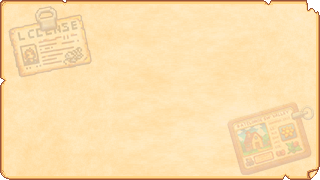
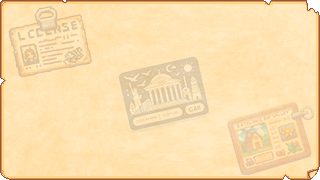
release v5.1.0

Changed region(s): [[0.375, 0.3056, 0.6562, 0.7222]]

diff --git a/ModEntry.cs b/ModEntry.cs
@@ -107,6 +107,7 @@ namespace MarketTown
         public static int TodayCookingSold = 0;
         public static int TodayFishSold = 0;
         public static int TodayGemSold = 0;
+        public static int TodayMuseumVisitor = 0;
         //
         // *************************** ENTRY ***************************
         //
@@ -209,8 +210,13 @@ namespace MarketTown
             TodayCookingSold = 0;
             TodayFishSold = 0;
             TodayGemSold = 0;
+            TodayMuseumVisitor = 0;
 
             listNPCTodayPurchaseTime.Clear();
+            validBuildingObjectPairs.Clear();
+
+            List<int> categoryKeys = new List<int> { 0, -2, -12, -28, -102 };
+            int museumPieces = 0;
 
             foreach (Building building in Game1.getFarm().buildings)
             {
@@ -218,9 +224,28 @@ namespace MarketTown
                 {
                     foreach (var obj in Game1.getLocationFromName(building.GetIndoorsName()).Objects.Values)
                     {
-                        if (obj is Sign sign && sign.displayItem.Value != null && (sign.displayItem.Value.Name == "Market License" || sign.displayItem.Value.Name == "Restaurant License"))
+                        // Case Museum
+                        if (obj is Sign sign && sign.displayItem.Value != null && sign.displayItem.Value.Name == "Museum License")
                         {
-                            validBuildingObjectPairs.Add(new BuildingObjectPair(building, obj));
+                            GameLocation location = Game1.getLocationFromName(building.GetIndoorsName());
+                            foreach (var f in location.furniture)
+                            {
+                                if ( f.heldObject.Value != null && categoryKeys.Contains(f.heldObject.Value.Category) )         // ***** Validate category items *****
+                                {
+                                    museumPieces ++;
+                                }
+                            }
+
+                            validBuildingObjectPairs.Add(new BuildingObjectPair(building, obj, "museum", museumPieces));
+                            if (!Config.RestaurantLocations.Contains(Game1.getLocationFromName(building.GetIndoorsName()).Name)) Config.RestaurantLocations.Add(Game1.getLocationFromName(building.GetIndoorsName()).Name);
+
+                            break;
+                        }
+
+                        //Case Market or Restaurant
+                        if (obj is Sign sign1 && sign1.displayItem.Value != null && (sign1.displayItem.Value.Name == "Market License" || sign1.displayItem.Value.Name == "Restaurant License"))
+                        {
+                            validBuildingObjectPairs.Add(new BuildingObjectPair(building, obj, "market", 0));
                             if ( !Config.RestaurantLocations.Contains(Game1.getLocationFromName(building.GetIndoorsName()).Name)) Config.RestaurantLocations.Add(Game1.getLocationFromName(building.GetIndoorsName()).Name);
                             break;
                         }
@@ -237,11 +262,15 @@ namespace MarketTown
         {
             public Building Building { get; set; }
             public Object Object { get; set; }
+            public string buildingType { get; set; }
+            public int ticketValue { get; set; }
 
-            public BuildingObjectPair(Building building, Object obj)
+            public BuildingObjectPair(Building building, Object obj, string buildingType, int ticketValue)
             {
                 Building = building;
                 Object = obj;
+                this.buildingType = buildingType;
+                this.ticketValue = ticketValue;
             }
         }
 
@@ -664,6 +693,17 @@ namespace MarketTown
                 min: 0.0f,
                 max: 1.0f,
                 interval: 0.01f
+            );
+
+            configMenu.AddNumberOption(
+                mod: ModManifest,
+                name: () => SHelper.Translation.Get("foodstore.config.museumpricemarkup"),
+                tooltip: () => SHelper.Translation.Get("foodstore.config.museumpricemarkupText"),
+                getValue: () => Config.MuseumPriceMarkup,
+                setValue: value => Config.MuseumPriceMarkup = value,
+                min: 0.0f,
+                max: 4.0f,
+                interval: 0.025f
             );
 
             configMenu.AddTextOption(
@@ -1153,21 +1193,23 @@ namespace MarketTown
 
                 TodayCustomerInteraction = TodayCustomerInteraction,
 
-                ForageSold = TodayForageSold + +weeklyForageSold,
-                FlowerSold = TodayFlowerSold + +weeklyFlowerSold,
-                FruitSold = TodayFruitSold + +weeklyFruitSold,
-                VegetableSold = TodayVegetableSold + +weeklyVegetableSold,
-                SeedSold = TodaySeedSold + +weeklySeedSold,
-                MonsterLootSold = TodayMonsterLootSold + +weeklyMonsterLootSold,
-                SyrupSold = TodaySyrupSold + +weeklySyrupSold,
-                ArtisanGoodSold = TodayArtisanGoodSold + +weeklyArtisanGoodSold,
-                AnimalProductSold = TodayAnimalProductSold + +weeklyAnimalProductSold,
-                ResourceMetalSold = TodayResourceMetalSold + +weeklyResourceMetalSold,
-                MineralSold = TodayMineralSold + +weeklyMineralSold,
-                CraftingSold = TodayCraftingSold + +weeklyCraftingSold,
-                CookingSold = TodayCookingSold + +weeklyCookingSold,
-                FishSold = TodayFishSold + +weeklyFishSold,
-                GemSold = TodayGemSold + +weeklyGemSold,
+                TodayMuseumVisitor = TodayMuseumVisitor,
+
+                ForageSold = TodayForageSold + weeklyForageSold,
+                FlowerSold = TodayFlowerSold + weeklyFlowerSold,
+                FruitSold = TodayFruitSold + weeklyFruitSold,
+                VegetableSold = TodayVegetableSold + weeklyVegetableSold,
+                SeedSold = TodaySeedSold + weeklySeedSold,
+                MonsterLootSold = TodayMonsterLootSold + weeklyMonsterLootSold,
+                SyrupSold = TodaySyrupSold + weeklySyrupSold,
+                ArtisanGoodSold = TodayArtisanGoodSold + weeklyArtisanGoodSold,
+                AnimalProductSold = TodayAnimalProductSold + weeklyAnimalProductSold,
+                ResourceMetalSold = TodayResourceMetalSold + weeklyResourceMetalSold,
+                MineralSold = TodayMineralSold + weeklyMineralSold,
+                CraftingSold = TodayCraftingSold + weeklyCraftingSold,
+                CookingSold = TodayCookingSold + weeklyCookingSold,
+                FishSold = TodayFishSold + weeklyFishSold,
+                GemSold = TodayGemSold + weeklyGemSold,
 
                 TotalForageSold = TodayForageSold + totalForageSold,
                 TotalFlowerSold = TodayFlowerSold + totalFlowerSold,
@@ -1574,15 +1616,28 @@ namespace MarketTown
 
             List<PlacedFoodData> foodList = new List<PlacedFoodData>();
 
+            var buildingIsFarm = false;
+            bool buildingIsMarket = false;
+            bool buildingIsRestaurant = false;
+
+            foreach (var building in Game1.getFarm().buildings)
+            {
+                if (building != null && building.GetIndoorsName() != null && building.GetIndoorsName().Contains(location.Name)) buildingIsFarm = true;
+            }
+
             foreach (var x in location.Objects)                 // Check valid Mannequin
             {
                 foreach (var obj in x.Values)
                 {
+                    if (obj is Sign sign && buildingIsFarm)
+                    {
+                        if (sign != null && sign.displayItem != null && sign.displayItem.Value.Name == "Museum License" ) return null;
+                        else if (sign != null && sign.displayItem != null && sign.displayItem.Value.Name == "Restaurant License") buildingIsRestaurant = true;
+                        else if (sign != null && sign.displayItem != null && sign.displayItem.Value.Name == "Market License") buildingIsMarket = true;
+                    }
+
                     if (obj.name.Contains("nequin") && obj is MtMannequin mannequin)
                     {
-                        // Access the name property of the object
-                        string objectName = obj.name;
-
                         bool hasHat = mannequin.Hat.Value != null;
                         bool hasShirt = mannequin.Shirt.Value != null;
                         bool hasPants = mannequin.Pants.Value != null;
@@ -1592,21 +1647,10 @@ namespace MarketTown
                         int yLocation = (obj.boundingBox.Y / 64) + (obj.boundingBox.Height / 64 / 2);
                         var fLocation = new Vector2(xLocation, yLocation);
 
-                        float signRange = Config.SignRange;
-                        bool hasSignInRange = x.Values.Any(otherObj => otherObj is Sign sign && Vector2.Distance(fLocation, sign.TileLocation) <= signRange);
+                        bool hasSignInRange = x.Values.Any(otherObj => otherObj is Sign sign && Vector2.Distance(fLocation, sign.TileLocation) <= Config.SignRange);
 
-                        Sign foundSign = location.Objects.Values
-                                        .OfType<Sign>()
-                                        .FirstOrDefault(sign => sign.displayItem.Value != null);
-
-                        var tempCheck = false;
-                        foreach (var building in Game1.getFarm().buildings)
-                        {
-                            if (building != null && building.GetIndoorsName() != null && building.GetIndoorsName().Contains(location.Name)) tempCheck = true;
-                        }
-
-                        if ((Config.SignRange == 0 && !tempCheck) 
-                            || (tempCheck && foundSign != null && foundSign.displayItem != null && foundSign.displayItem.Value.Name == "Market License")) hasSignInRange = true;
+                        if ( Config.SignRange == 0
+                            || (buildingIsFarm && (buildingIsMarket || buildingIsRestaurant)) ) hasSignInRange = true;
 
                         // Add to foodList only if there is no sign within the range
                         if (hasSignInRange && Vector2.Distance(fLocation, npc.Tile) < Config.MaxDistanceToFind && (hasHat || hasPants || hasShirt || hasBoots))
@@ -1628,26 +1672,14 @@ namespace MarketTown
                     int yLocation = (f.boundingBox.Y / 64) + (f.boundingBox.Height / 64 / 2);
                     var fLocation = new Vector2(xLocation, yLocation);
 
-                    float signRange = Config.SignRange;
-                    bool hasSignInRange = location.Objects.Values.Any(obj => obj is Sign sign && Vector2.Distance(fLocation, sign.TileLocation) <= signRange);
+                    bool hasSignInRange = location.Objects.Values.Any(obj => obj is Sign sign && Vector2.Distance(fLocation, sign.TileLocation) <= Config.SignRange);
 
-                    Sign foundSign = location.Objects.Values
-                                    .OfType<Sign>()
-                                    .FirstOrDefault(sign => sign.displayItem.Value != null);
-                    var tempCheck = false;
-                    foreach ( var building in Game1.getFarm().buildings)
-                    {
-                        if (building != null && building.GetIndoorsName() != null && building.GetIndoorsName().Contains(location.Name)) tempCheck = true;
-                    }
-
-                    if ( (Config.SignRange == 0 && !tempCheck)
-                          || (tempCheck && foundSign != null && foundSign.displayItem != null && foundSign.displayItem.Value.Name == "Market License")
-                          || (tempCheck && foundSign != null && f.heldObject.Value.Category == -7 && foundSign.displayItem != null && foundSign.displayItem.Value.Name == "Restaurant License")
-                            
-                        ) hasSignInRange = true;
+                    if ( Config.SignRange == 0
+                          || (buildingIsFarm && buildingIsMarket)
+                          || (buildingIsFarm && f.heldObject.Value.Category == -7 && buildingIsRestaurant) ) hasSignInRange = true;
 
                     // Add to foodList only if there is no sign within the range
-                    if (hasSignInRange&& Vector2.Distance(fLocation, npc.Tile) < Config.MaxDistanceToFind)
+                    if (hasSignInRange && Vector2.Distance(fLocation, npc.Tile) < Config.MaxDistanceToFind)
                     {
                         foodList.Add(new PlacedFoodData(f, fLocation, f.heldObject.Value, -1));
                     }
@@ -2005,9 +2037,12 @@ namespace MarketTown
                 {
                     Building building = pair.Building;
                     Object obj = pair.Object;
+                    string buildingType = pair.buildingType;
+                    int ticketValue = pair.ticketValue;
+
                     Vector2 doorTile = new(0f, 0f);
 
-                    if (GlobalNPCList.Count == 0 || building == null || obj == null || CountShedVisitor(Game1.getLocationFromName(building.GetIndoorsName())) >= Config.MaxShedCapacity) return;
+                    if (GlobalNPCList.Count == 0 || building == null || obj == null || CountShedVisitor(Game1.getLocationFromName(building.GetIndoorsName())) >= Config.MaxShedCapacity || buildingType == "museum" && Config.MuseumPriceMarkup / 4.1 > random.NextDouble() ) return;
 
                     if (building != null && building.GetIndoorsName() != null)
                     {
@@ -2147,6 +2182,11 @@ namespace MarketTown
                         clearTiles.Clear();
                     }
 
+                    if (buildingType == "museum")
+                    {
+                        TodayMuseumVisitor++;
+                        Game1.player.Money += (int)(10 * ticketValue * Config.MuseumPriceMarkup);
+                    }
                     visit.modData["hapyke.FoodStore/timeVisitShed"] = Game1.timeOfDay.ToString();
                 }
             }   // ****** end of shed visitor ******

diff --git a/Data.cs b/Data.cs
@@ -19,6 +19,7 @@ namespace MarketTown;
 
         public int TodayCustomerInteraction = 0;
 
+        public int TodayMuseumVisitor { get; set; } = 0;
         public int ForageSold { get; set; } = 0;
         public int FlowerSold { get; set; } = 0;
         public int FruitSold { get; set; } = 0;
@@ -69,7 +70,7 @@ namespace MarketTown;
                 new Letter(
                     "MT.Welcome",
                     modHelper.Translation.Get("foodstore.letter.mtwelcome"),
-                    (Letter l) => !Game1.player.mailReceived.Contains("MT.Welcome"),
+                    (Letter l) => !Game1.player.mailReceived.Contains("MT.Welcome") || Game1.dayOfMonth == 1 ,
                     delegate (Letter l)
                     {
                         ((NetHashSet<string>)(object)Game1.player.mailReceived).Add(l.Id);
@@ -85,8 +86,24 @@ namespace MarketTown;
 
             if (model == null) { return; }
 
-            // Restaurant License Letter
-            MailRepository.SaveLetter(
+        // Museum License Letter
+        MailRepository.SaveLetter(
+            new Letter(
+                "MT.MuseumLicense",
+                modHelper.Translation.Get("foodstore.letter.mtmuseumlicense"),
+                (Letter l) => !Game1.player.mailReceived.Contains("MT.MuseumLicense") || Game1.netWorldState.Value.MuseumPieces.Count() >= 30,
+                delegate (Letter l)
+                {
+                    ((NetHashSet<string>)(object)Game1.player.mailReceived).Add(l.Id);
+                })
+            {
+                Title = "Museum License available",
+                LetterTexture = letterTexture
+            }
+        );
+
+        // Restaurant License Letter
+        MailRepository.SaveLetter(
                 new Letter(
                     "MT.RestaurantLicense",
                     modHelper.Translation.Get("foodstore.letter.mtrestaurantlicense"),
@@ -106,7 +123,7 @@ namespace MarketTown;
                 new Letter(
                     "MT.MarketTownLicense",
                     modHelper.Translation.Get("foodstore.letter.mtmarkettownlicense"),
-                    (Letter l) => !!Game1.player.mailReceived.Contains("MT.MarketTownLicense") && model.TotalEarning >= 30000 && model.TotalForageSold >= 30 && model.TotalVegetableSold >= 30 && model.TotalArtisanGoodSold >= 30 && model.TotalAnimalProductSold >= 30 && model.TotalCookingSold >= 30 && model.TotalFishSold >= 30 && model.TotalMineralSold >= 30,
+                    (Letter l) => !Game1.player.mailReceived.Contains("MT.MarketTownLicense") && model.TotalEarning >= 30000 && model.TotalForageSold >= 30 && model.TotalVegetableSold >= 30 && model.TotalArtisanGoodSold >= 30 && model.TotalAnimalProductSold >= 30 && model.TotalCookingSold >= 30 && model.TotalFishSold >= 30 && model.TotalMineralSold >= 30,
                     delegate (Letter l)
                     {
                         ((NetHashSet<string>)(object)Game1.player.mailReceived).Add(l.Id);
@@ -119,17 +136,17 @@ namespace MarketTown;
 
 
 
-            // Dynamic Letter --------------------------------------------------------------
+        // Dynamic Letter --------------------------------------------------------------
 
 
 
-            string categoryCountsString = GetCategoryCountsString(model, modHelper);
+        string categoryCountsString = GetCategoryCountsString(model, modHelper);
             // Daily Log letter
             MailRepository.SaveLetter(
                 new Letter(
                     "MT.SellLogMail",
-                    modHelper.Translation.Get("foodstore.mailtotal", new { totalEarning = model.TotalEarning, sellMoney = model.SellMoney, todayCustomerInteraction = model.TodayCustomerInteraction }) + model.SellList,
-                    (Letter l) => model.SellMoney != 0)
+                    modHelper.Translation.Get("foodstore.mailtotal", new { totalEarning = model.TotalEarning, sellMoney = model.SellMoney, todayCustomerInteraction = model.TodayCustomerInteraction }) + modHelper.Translation.Get("foodstore.todaymuseumvisitor", new {todayMMuseumVisitor = model.TodayMuseumVisitor}) + model.SellList,
+                    (Letter l) => model.SellMoney != 0 || model.TodayMuseumVisitor != 0)
                 {
                     LetterTexture = letterTexture
                 }

diff --git a/ModConfig.cs b/ModConfig.cs
@@ -68,5 +68,7 @@ namespace MarketTown
             "Big Shed"
         };
         public int NPCCheckTimer { get; set; } = 1;
+
+        public float MuseumPriceMarkup { get; set; } = 1.0f;
     }
 }
